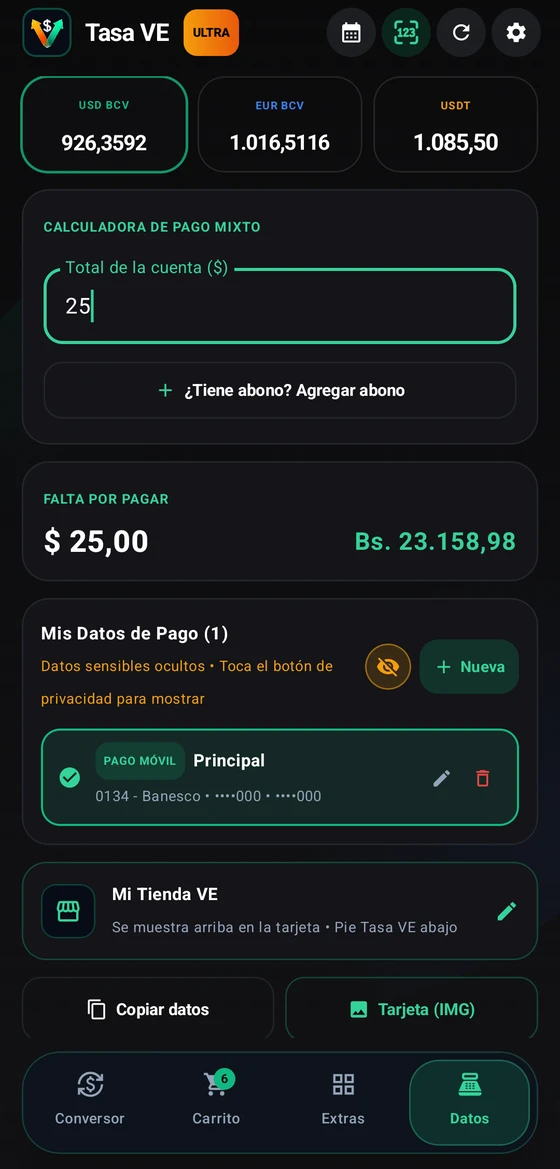
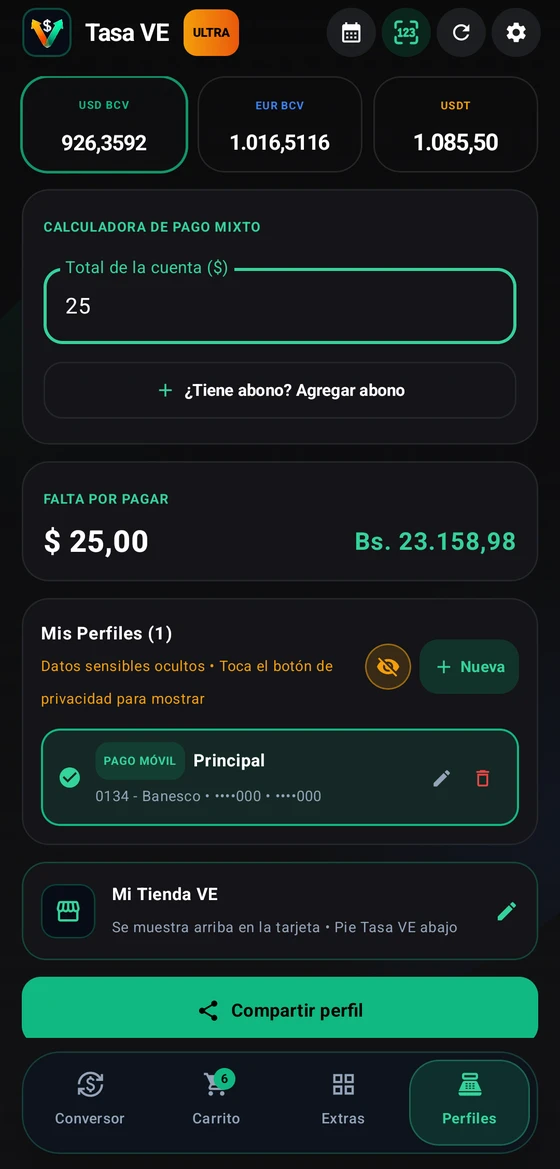
chore(web): update landing copy and screenshots for Perfiles tab and Compartir perfil

diff --git a/docs/index.html b/docs/index.html
@@ -42,7 +42,7 @@
   <link rel="preconnect" href="https://fonts.googleapis.com">
   <link rel="preconnect" href="https://fonts.gstatic.com" crossorigin>
   <link href="https://fonts.googleapis.com/css2?family=Plus+Jakarta+Sans:wght@400;500;600;700;800&display=swap" rel="stylesheet">
-  <link rel="stylesheet" href="styles.css?v=20261127">
+  <link rel="stylesheet" href="styles.css?v=20261127b">
 
   <!-- JSON-LD Structured Data (SoftwareApplication + WebSite + FAQPage for Rich SEO) -->
   <script type="application/ld+json">
@@ -106,7 +106,7 @@
             "name": "¿Dónde se guardan mis datos de Pago Móvil, cuentas bancarias, Zelle o Binance?",
             "acceptedAnswer": {
               "@type": "Answer",
-              "text": "Tus datos nunca salen de tu teléfono: se almacenan exclusivamente en el espacio privado de tu equipo Android, sin cuentas ni servidores propios y excluidos del respaldo automático en la nube. También cuentas con un botón de privacidad visual en Datos y en el Widget de pantalla de inicio (Ultra) para ocultarlos al instante."
+              "text": "Tus datos nunca salen de tu teléfono: se almacenan exclusivamente en el espacio privado de tu equipo Android, sin cuentas ni servidores propios y excluidos del respaldo automático en la nube. También cuentas con un botón de privacidad visual en Perfiles y en el Widget de pantalla de inicio (Ultra) para ocultarlos al instante."
             }
           },
           {
@@ -250,16 +250,16 @@
                     <svg viewBox="0 0 22 12" width="17" height="9" fill="none"><rect x="0.75" y="1.25" width="17.5" height="9.5" rx="2.5" stroke="currentColor" stroke-width="1.3"/><rect x="2.6" y="3" width="13.8" height="6" rx="1.2" fill="currentColor"/><rect x="19.5" y="4" width="1.8" height="4" rx="0.8" fill="currentColor"/></svg>
                   </span>
                 </div>
-                <img id="hero-device-img" src="assets/screens/screen_conversor.webp?v=20261127" alt="Captura real del conversor multitasa de Tasa VE" width="560" height="1169" fetchpriority="high">
+                <img id="hero-device-img" src="assets/screens/screen_conversor.webp?v=20261127b" alt="Captura real del conversor multitasa de Tasa VE" width="560" height="1169" fetchpriority="high">
                 <div class="device-homebar" aria-hidden="true"><span></span></div>
               </div>
             </div>
 
             <div class="hero-screen-dock" role="tablist" aria-label="Capturas reales de Tasa VE">
-              <button type="button" class="dock-btn is-active" data-hero-screen="assets/screens/screen_conversor.webp?v=20261127" data-hero-alt="Captura real del conversor multitasa de Tasa VE">Conversor</button>
-              <button type="button" class="dock-btn" data-hero-screen="assets/screens/screen_cobros.webp?v=20261127" data-hero-alt="Captura real de la sección Datos y cálculos mixtos en Tasa VE">Datos</button>
-              <button type="button" class="dock-btn" data-hero-screen="assets/screens/screen_flotante.webp?v=20261127" data-hero-alt="Acceso rápido flotante real de Tasa VE">Acceso flotante</button>
-              <button type="button" class="dock-btn" data-hero-screen="assets/screens/screen_tarjeta.webp?v=20261127" data-hero-alt="Instrucciones de pago personalizadas generadas por Tasa VE">Instrucciones</button>
+              <button type="button" class="dock-btn is-active" data-hero-screen="assets/screens/screen_conversor.webp?v=20261127b" data-hero-alt="Captura real del conversor multitasa de Tasa VE">Conversor</button>
+              <button type="button" class="dock-btn" data-hero-screen="assets/screens/screen_cobros.webp?v=20261127b" data-hero-alt="Captura real de la sección Perfiles y cálculos mixtos en Tasa VE">Perfiles</button>
+              <button type="button" class="dock-btn" data-hero-screen="assets/screens/screen_flotante.webp?v=20261127b" data-hero-alt="Acceso rápido flotante real de Tasa VE">Acceso flotante</button>
+              <button type="button" class="dock-btn" data-hero-screen="assets/screens/screen_tarjeta.webp?v=20261127b" data-hero-alt="Instrucciones de pago personalizadas generadas por Tasa VE">Instrucciones</button>
             </div>
           </div>
         </div>
@@ -314,9 +314,9 @@
                   y comparte tus instrucciones de pago personalizadas acompañadas únicamente de los datos necesarios para autocompletar en BDV, Banesco, Mercantil o Bancamiga al hacer o recibir un pago.
                 </p>
                 <div class="bento-switcher" data-spotlight-group="bento-pay">
-                  <button type="button" class="mini-pill is-active" data-src="assets/screens/screen_cobros.webp?v=20261127" data-alt="Sección Datos y cálculos mixtos real de Tasa VE">Datos</button>
-                  <button type="button" class="mini-pill" data-src="assets/screens/screen_tarjeta.webp?v=20261127" data-alt="Instrucciones de pago personalizadas generadas por Tasa VE">Instrucciones</button>
-                  <button type="button" class="mini-pill" data-src="assets/screens/screen_flotante.webp?v=20261127" data-alt="Acceso rápido flotante real de Tasa VE">Acceso flotante</button>
+                  <button type="button" class="mini-pill is-active" data-src="assets/screens/screen_cobros.webp?v=20261127b" data-alt="Sección Perfiles y cálculos mixtos real de Tasa VE">Perfiles</button>
+                  <button type="button" class="mini-pill" data-src="assets/screens/screen_tarjeta.webp?v=20261127b" data-alt="Instrucciones de pago personalizadas generadas por Tasa VE">Instrucciones</button>
+                  <button type="button" class="mini-pill" data-src="assets/screens/screen_flotante.webp?v=20261127b" data-alt="Acceso rápido flotante real de Tasa VE">Acceso flotante</button>
                 </div>
               </div>
               <div class="bento-device">
@@ -330,7 +330,7 @@
                         <svg viewBox="0 0 22 12" width="15" height="8" fill="none"><rect x="0.75" y="1.25" width="17.5" height="9.5" rx="2.5" stroke="currentColor" stroke-width="1.3"/><rect x="2.6" y="3" width="13.8" height="6" rx="1.2" fill="currentColor"/><rect x="19.5" y="4" width="1.8" height="4" rx="0.8" fill="currentColor"/></svg>
                       </span>
                     </div>
-                    <img id="bento-pay-img" src="assets/screens/screen_cobros.webp?v=20261127" alt="Sección Datos y cálculos mixtos real de Tasa VE" width="560" height="1169" loading="lazy">
+                    <img id="bento-pay-img" src="assets/screens/screen_cobros.webp?v=20261127b" alt="Sección Perfiles y cálculos mixtos real de Tasa VE" width="560" height="1169" loading="lazy">
                   </div>
                 </div>
               </div>
@@ -355,7 +355,7 @@
                         <svg viewBox="0 0 22 12" width="15" height="8" fill="none"><rect x="0.75" y="1.25" width="17.5" height="9.5" rx="2.5" stroke="currentColor" stroke-width="1.3"/><rect x="2.6" y="3" width="13.8" height="6" rx="1.2" fill="currentColor"/><rect x="19.5" y="4" width="1.8" height="4" rx="0.8" fill="currentColor"/></svg>
                       </span>
                     </div>
-                    <img src="assets/screens/screen_calendario.webp?v=20261127" alt="Calendario Bancario e historial de tasas BCV en Tasa VE" width="560" height="1169" loading="lazy">
+                    <img src="assets/screens/screen_calendario.webp?v=20261127b" alt="Calendario Bancario e historial de tasas BCV en Tasa VE" width="560" height="1169" loading="lazy">
                   </div>
                 </div>
               </div>
@@ -380,7 +380,7 @@
                         <svg viewBox="0 0 22 12" width="15" height="8" fill="none"><rect x="0.75" y="1.25" width="17.5" height="9.5" rx="2.5" stroke="currentColor" stroke-width="1.3"/><rect x="2.6" y="3" width="13.8" height="6" rx="1.2" fill="currentColor"/><rect x="19.5" y="4" width="1.8" height="4" rx="0.8" fill="currentColor"/></svg>
                       </span>
                     </div>
-                    <img src="assets/screens/screen_utiles.webp?v=20261127" alt="Recomendación de tasa para pagar en Tasa VE" width="560" height="1169" loading="lazy">
+                    <img src="assets/screens/screen_utiles.webp?v=20261127b" alt="Recomendación de tasa para pagar en Tasa VE" width="560" height="1169" loading="lazy">
                   </div>
                 </div>
               </div>
@@ -414,7 +414,7 @@
                         <svg viewBox="0 0 22 12" width="15" height="8" fill="none"><rect x="0.75" y="1.25" width="17.5" height="9.5" rx="2.5" stroke="currentColor" stroke-width="1.3"/><rect x="2.6" y="3" width="13.8" height="6" rx="1.2" fill="currentColor"/><rect x="19.5" y="4" width="1.8" height="4" rx="0.8" fill="currentColor"/></svg>
                       </span>
                     </div>
-                    <img src="assets/screens/screen_carrito.webp?v=20261127" alt="Carrito de compras con cálculo de impuestos aplicables en Tasa VE" width="560" height="1169" loading="lazy">
+                    <img src="assets/screens/screen_carrito.webp?v=20261127b" alt="Carrito de compras con cálculo de impuestos aplicables en Tasa VE" width="560" height="1169" loading="lazy">
                   </div>
                 </div>
               </div>
@@ -482,7 +482,7 @@
                 <li><strong>Escáner de precios, carrito y perfiles bancarios</strong> (Pago Móvil, bancos, Zelle y Binance) sin topes diarios <span class="perk-tag">Ilimitado</span></li>
                 <li><strong>Acceso rápido flotante</strong> sobre WhatsApp y cualquier otra app <span class="perk-tag">Exclusivo</span></li>
                 <li><strong>Notificación fija</strong> en el panel de notificaciones con tasas del día y copiado en 1 toque <span class="perk-tag">Exclusivo</span></li>
-                <li><strong>Widget Calculadora y Datos</strong> directo en tu pantalla de inicio <span class="perk-tag">Exclusivo</span></li>
+                <li><strong>Widget Calculadora y Perfiles</strong> directo en tu pantalla de inicio <span class="perk-tag">Exclusivo</span></li>
                 <li><strong>Logo y nombre propio</strong> en tus instrucciones de pago personalizadas <span class="perk-tag">Exclusivo</span></li>
               </ul>
             </div>
@@ -510,7 +510,7 @@
 
           <details class="faq-row">
             <summary>¿Cómo funciona el autocompletado bancario de Pago Móvil?</summary>
-            <p>Al tocar <em>Copiar datos</em> o compartir tus <strong>instrucciones de pago personalizadas</strong> por WhatsApp, la imagen muestra el desglose del cálculo, mientras que el texto copiable envía únicamente los datos necesarios para realizar tu transacción (código de banco, cédula, teléfono y monto exacto en bolívares) para que bancos como BDV, Banesco, Mercantil o Bancamiga autocompleten los campos al pegar.</p>
+            <p>Al tocar <em>Compartir perfil</em> para enviar tus <strong>instrucciones de pago personalizadas</strong> por WhatsApp u otra app, la imagen muestra el desglose del cálculo, mientras que el texto adjunto envía únicamente los datos necesarios para realizar tu transacción (código de banco, cédula, teléfono y monto exacto en bolívares) para que bancos como BDV, Banesco, Mercantil o Bancamiga autocompleten los campos al pegar.</p>
           </details>
 
           <details class="faq-row">
@@ -518,7 +518,7 @@
             <p>
               Tus datos nunca salen de tu teléfono: viven exclusivamente en el almacenamiento privado de tu equipo Android, sin cuentas ni servidores propios, y excluidos del respaldo automático en la nube. También cuentas con un <strong>botón de privacidad visual</strong>
               <span class="inline-eye-badge" title="Botón de privacidad visual" aria-label="ícono de privacidad"><svg viewBox="0 0 24 24" width="13" height="13" fill="none" stroke="currentColor" stroke-width="2" stroke-linecap="round" stroke-linejoin="round" aria-hidden="true"><path d="M2 12s3.5-7 10-7 10 7 10 7-3.5 7-10 7-10-7-10-7Z"/><circle cx="12" cy="12" r="3"/></svg></span>
-              en la sección Datos y en el Widget de pantalla de inicio (Ultra) para ocultarlos al instante.
+              en la sección Perfiles y en el Widget de pantalla de inicio (Ultra) para ocultarlos al instante.
             </p>
           </details>
 
@@ -767,6 +767,6 @@
     </a>
   </div>
 
-  <script src="app.js?v=20261127"></script>
+  <script src="app.js?v=20261127b"></script>
 </body>
 </html>
